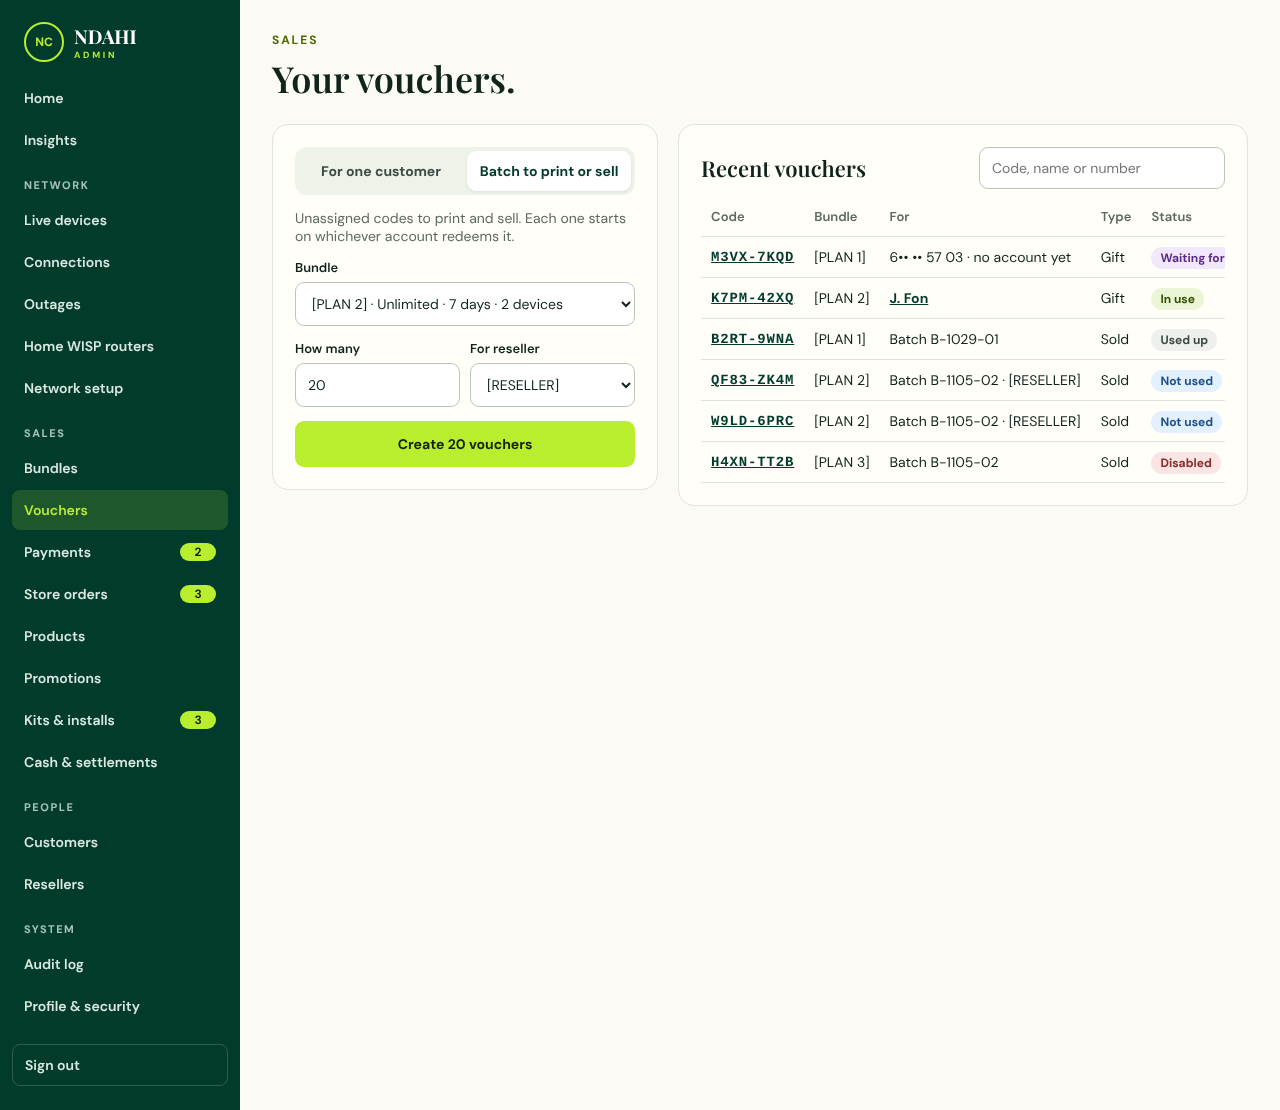
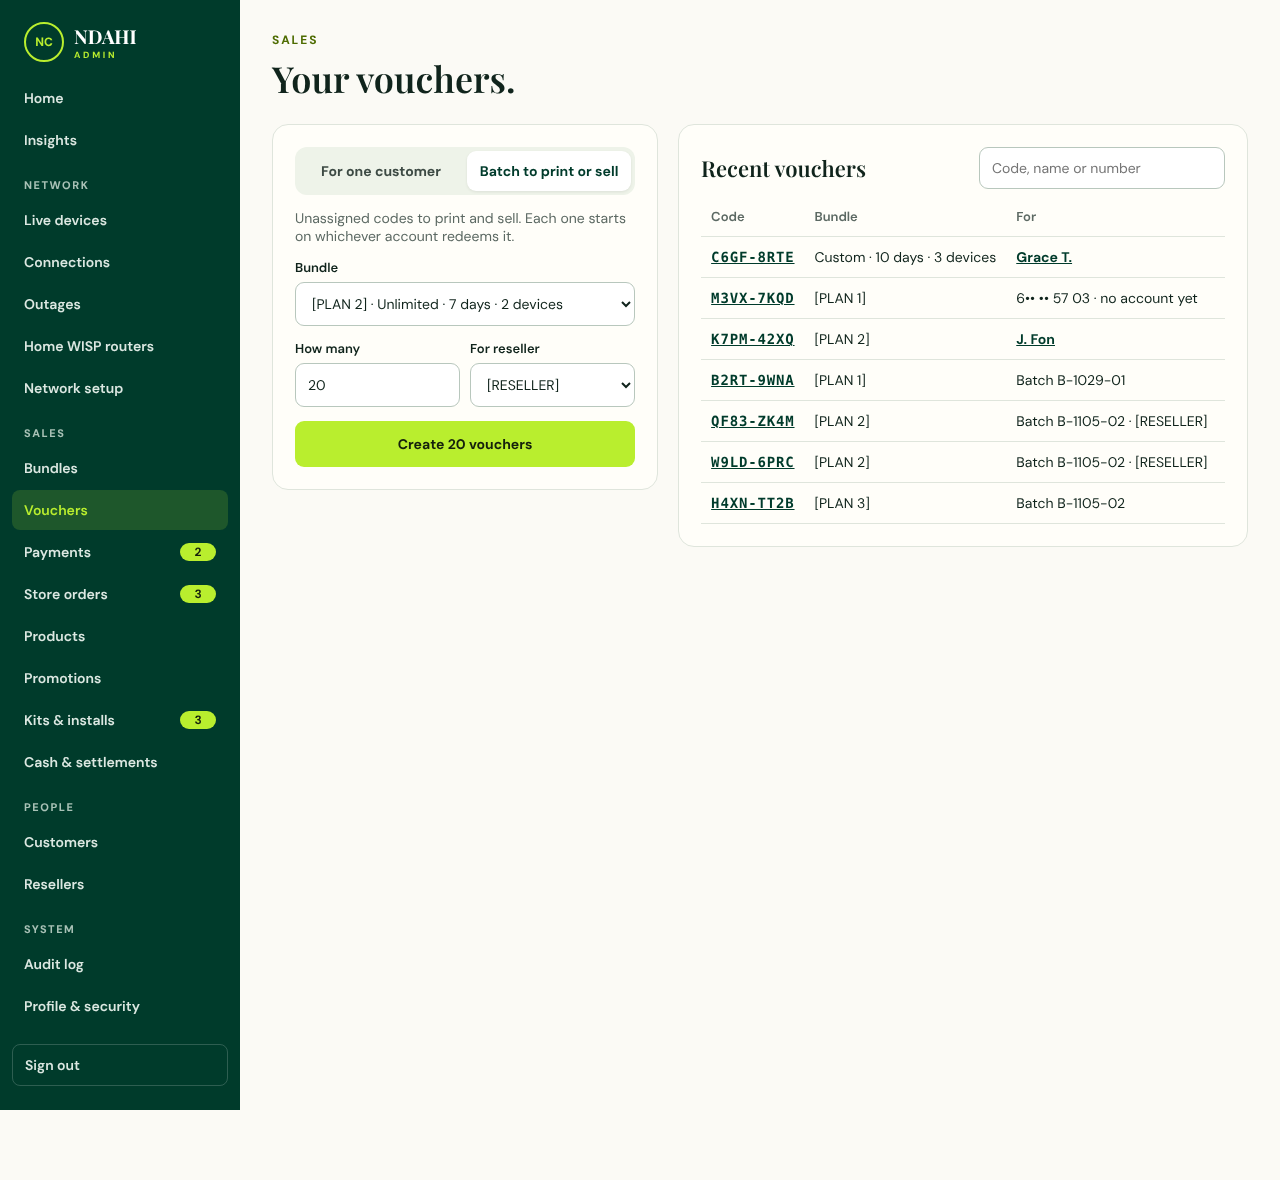
docs(redesign): custom gift bundles in Admin → Vouchers; Black Friday free month
Claude-Session: https://claude.ai/code/session_01PeEvdR56ZfPMa6Qo24KpBv

diff --git a/docs/redesign/screens/AdminVouchers.dc.html b/docs/redesign/screens/AdminVouchers.dc.html
@@ -84,14 +84,48 @@ th{color:#5c6963;font-weight:600;font-size:13px}
                       <button type="button" onClick="{{unpick}}" style="min-height: 40px; padding: 0 10px; border: 0; background: transparent; color: #003b2b; font: 700 13px 'DM Sans', sans-serif; cursor: pointer">Change</button>
                     </div>
                     <p style="margin: 0; padding: 12px 14px; border-radius: 12px; background: #e3f0ff; color: #1d4f86; font-size: 14px; line-height: 1.5">The voucher is <strong>reserved for this number</strong>. To claim it they need the number <em>and</em> the code, so give them the slip or read them the code. If they later pay with Mobile Money from this number, it's added to their account automatically.</p>
-                    <div><label class="lbl" for="vb2">Bundle</label><select class="in" id="vb2"><option>[PLAN 1] · Unlimited · 24 h · 1 device</option><option selected="">[PLAN 2] · Unlimited · 7 days · 2 devices</option><option>[PLAN 3] · Unlimited · 30 days · 4 devices</option></select></div>
-                    <fieldset style="margin: 0; padding: 0; border: 0; display: flex; flex-direction: column; gap: 8px">
+                    <div style="display: flex; flex-direction: column; gap: 10px">
+                      <span class="lbl" style="margin: 0">Bundle</span>
+                      <div role="tablist" aria-label="Bundle source" style="display: flex; gap: 4px; padding: 4px; border-radius: 10px; background: #eef3e9">
+                        <sc-for list="{{srcTabs}}" as="t" hint-placeholder-count="2"><button type="button" role="tab" aria-selected="{{t.sel}}" onClick="{{t.pick}}" style="{{t.style}}">{{t.label}}</button></sc-for>
+                      </div>
+                      <sc-if value="{{isCatalogue}}" hint-placeholder-val="{{ true }}">
+                        <select class="in" id="vb2" aria-label="Catalogue bundle"><option>[PLAN 1] · Unlimited · 24 h · 1 device</option><option selected="">[PLAN 2] · Unlimited · 7 days · 2 devices</option><option>[PLAN 3] · Unlimited · 30 days · 4 devices</option></select>
+                      </sc-if>
+                      <sc-if value="{{isCustom}}" hint-placeholder-val="{{ false }}">
+                        <div style="display: flex; flex-direction: column; gap: 12px; padding: 14px; border-radius: 12px; border: 1px solid #dfe5dc; background: #ffffff">
+                          <fieldset style="margin: 0; padding: 0; border: 0; display: grid; grid-template-columns: 1fr 1fr; gap: 8px">
+                            <legend class="lbl">Access type</legend>
+                            <sc-for list="{{access}}" as="a" hint-placeholder-count="2">
+                              <label style="{{a.style}}"><input type="radio" name="cat2" checked="{{a.on}}" onChange="{{a.pick}}" style="width: 18px; height: 18px; accent-color: #003b2b; margin: 2px 0 0"><span><strong style="display: block; font-size: 14px">{{a.label}}</strong><span style="font-size: 12px; color: #5c6963">{{a.hint}}</span></span></label>
+                            </sc-for>
+                          </fieldset>
+                          <div><label class="lbl" for="cv2">Validity</label>
+                            <div style="display: flex; gap: 8px"><input class="in" id="cv2" type="number" min="1" value="10" style="flex: 1"><div role="radiogroup" aria-label="Unit" style="display: flex; gap: 4px; padding: 4px; border-radius: 9px; background: #eef3e9"><span style="display: grid; place-items: center; padding: 0 12px; border-radius: 7px; font-size: 13px; font-weight: 600; color: #3d4a44">hours</span><span style="display: grid; place-items: center; padding: 0 12px; border-radius: 7px; background: #ffffff; font-size: 13px; font-weight: 700; color: #003b2b">days</span></div></div>
+                            <p style="margin: 6px 0 0; color: #5c6963; font-size: 12px">1 hour to 365 days. Starts at their first connection.</p>
+                          </div>
+                          <sc-if value="{{isPersonal}}" hint-placeholder-val="{{ true }}">
+                            <div><span class="lbl">Device slots</span>
+                              <div style="display: flex; gap: 6px; align-items: center"><sc-for list="{{slots}}" as="d" hint-placeholder-count="4"><span style="{{d.style}}">{{d.n}}</span></sc-for><span style="color: #5c6963; font-size: 13px; padding: 0 4px">or</span><input class="in" aria-label="Custom number of slots" type="number" min="1" max="10" value="3" style="width: 64px; min-height: 38px"></div>
+                            </div>
+                          </sc-if>
+                          <sc-if value="{{isWisp}}" hint-placeholder-val="{{ false }}">
+                            <p style="margin: 0; padding: 10px 12px; border-radius: 10px; background: #eef3e9; font-size: 13px; color: #3d4a44">1 registered WISP router · sharing on · up to 60 household devices on supported routers</p>
+                          </sc-if>
+                          <div style="display: flex; justify-content: space-between; gap: 10px; padding: 10px 12px; border-radius: 10px; background: #f6f7f2; font-size: 13px"><span style="color: #5c6963">Data</span><strong>Unlimited</strong></div>
+                          <div><label class="lbl" for="cr2">Reason (required, kept in the audit log)</label><input class="in" id="cr2" value="Compensation for the 18 Nov outage at AP-Market"></div>
+                          <p style="margin: 0; padding: 10px 12px; border-radius: 10px; background: #003b2b; color: #ffffff; font-size: 13px; line-height: 1.45"><span style="color: #b9ee2e; font-weight: 700">They'll see:</span> {{customName}}</p>
+                          <p style="margin: 0; color: #5c6963; font-size: 12px; line-height: 1.5">Custom bundles are always gifts: no revenue, not added to the catalogue, can't be bought again. Terms are fixed when you give it.</p>
+                        </div>
+                      </sc-if>
+                    </div>
+                    <sc-if value="{{isCatalogue}}" hint-placeholder-val="{{ true }}"><fieldset style="margin: 0; padding: 0; border: 0; display: flex; flex-direction: column; gap: 8px">
                       <legend class="lbl">How it was paid</legend>
                       <sc-for list="{{kinds}}" as="k" hint-placeholder-count="2">
                         <label style="{{k.style}}"><input type="radio" name="sk2" checked="{{k.on}}" onChange="{{k.pick}}" style="width: 18px; height: 18px; accent-color: #003b2b"><span><strong style="display: block; font-size: 14px">{{k.label}}</strong><span style="font-size: 13px; color: #5c6963">{{k.hint}}</span></span></label>
                       </sc-for>
-                    </fieldset>
-                    <button type="button" class="go" onClick="{{give}}">Reserve [PLAN 2] for this number</button>
+                    </fieldset></sc-if>
+                    <button type="button" class="go" onClick="{{give}}">{{reserveLabel}}</button>
                     <p style="margin: 0; color: #5c6963; font-size: 13px">Unclaimed after 90 days, it expires. You can change the number or revoke it any time before it's claimed.</p>
                   </div>
                 </sc-if>
@@ -103,13 +137,47 @@ th{color:#5c6963;font-weight:600;font-size:13px}
                       <span style="flex: 1"><strong style="display: block">{{who}}</strong><span style="font-size: 13px; color: #5c6963">{{whoLine}}</span></span>
                       <button type="button" onClick="{{unpick}}" style="min-height: 40px; padding: 0 10px; border: 0; background: transparent; color: #003b2b; font: 700 13px 'DM Sans', sans-serif; cursor: pointer">Change</button>
                     </div>
-                    <div><label class="lbl" for="vb1">Bundle</label><select class="in" id="vb1"><option>[PLAN 1] · Unlimited · 24 h · 1 device</option><option selected="">[PLAN 2] · Unlimited · 7 days · 2 devices</option><option>[PLAN 3] · Unlimited · 30 days · 4 devices</option></select></div>
-                    <fieldset style="margin: 0; padding: 0; border: 0; display: flex; flex-direction: column; gap: 8px">
+                    <div style="display: flex; flex-direction: column; gap: 10px">
+                      <span class="lbl" style="margin: 0">Bundle</span>
+                      <div role="tablist" aria-label="Bundle source" style="display: flex; gap: 4px; padding: 4px; border-radius: 10px; background: #eef3e9">
+                        <sc-for list="{{srcTabs}}" as="t" hint-placeholder-count="2"><button type="button" role="tab" aria-selected="{{t.sel}}" onClick="{{t.pick}}" style="{{t.style}}">{{t.label}}</button></sc-for>
+                      </div>
+                      <sc-if value="{{isCatalogue}}" hint-placeholder-val="{{ true }}">
+                        <select class="in" id="vb1" aria-label="Catalogue bundle"><option>[PLAN 1] · Unlimited · 24 h · 1 device</option><option selected="">[PLAN 2] · Unlimited · 7 days · 2 devices</option><option>[PLAN 3] · Unlimited · 30 days · 4 devices</option></select>
+                      </sc-if>
+                      <sc-if value="{{isCustom}}" hint-placeholder-val="{{ false }}">
+                        <div style="display: flex; flex-direction: column; gap: 12px; padding: 14px; border-radius: 12px; border: 1px solid #dfe5dc; background: #ffffff">
+                          <fieldset style="margin: 0; padding: 0; border: 0; display: grid; grid-template-columns: 1fr 1fr; gap: 8px">
+                            <legend class="lbl">Access type</legend>
+                            <sc-for list="{{access}}" as="a" hint-placeholder-count="2">
+                              <label style="{{a.style}}"><input type="radio" name="cat1" checked="{{a.on}}" onChange="{{a.pick}}" style="width: 18px; height: 18px; accent-color: #003b2b; margin: 2px 0 0"><span><strong style="display: block; font-size: 14px">{{a.label}}</strong><span style="font-size: 12px; color: #5c6963">{{a.hint}}</span></span></label>
+                            </sc-for>
+                          </fieldset>
+                          <div><label class="lbl" for="cv1">Validity</label>
+                            <div style="display: flex; gap: 8px"><input class="in" id="cv1" type="number" min="1" value="10" style="flex: 1"><div role="radiogroup" aria-label="Unit" style="display: flex; gap: 4px; padding: 4px; border-radius: 9px; background: #eef3e9"><span style="display: grid; place-items: center; padding: 0 12px; border-radius: 7px; font-size: 13px; font-weight: 600; color: #3d4a44">hours</span><span style="display: grid; place-items: center; padding: 0 12px; border-radius: 7px; background: #ffffff; font-size: 13px; font-weight: 700; color: #003b2b">days</span></div></div>
+                            <p style="margin: 6px 0 0; color: #5c6963; font-size: 12px">1 hour to 365 days. Starts at their first connection.</p>
+                          </div>
+                          <sc-if value="{{isPersonal}}" hint-placeholder-val="{{ true }}">
+                            <div><span class="lbl">Device slots</span>
+                              <div style="display: flex; gap: 6px; align-items: center"><sc-for list="{{slots}}" as="d" hint-placeholder-count="4"><span style="{{d.style}}">{{d.n}}</span></sc-for><span style="color: #5c6963; font-size: 13px; padding: 0 4px">or</span><input class="in" aria-label="Custom number of slots" type="number" min="1" max="10" value="3" style="width: 64px; min-height: 38px"></div>
+                            </div>
+                          </sc-if>
+                          <sc-if value="{{isWisp}}" hint-placeholder-val="{{ false }}">
+                            <p style="margin: 0; padding: 10px 12px; border-radius: 10px; background: #eef3e9; font-size: 13px; color: #3d4a44">1 registered WISP router · sharing on · up to 60 household devices on supported routers</p>
+                          </sc-if>
+                          <div style="display: flex; justify-content: space-between; gap: 10px; padding: 10px 12px; border-radius: 10px; background: #f6f7f2; font-size: 13px"><span style="color: #5c6963">Data</span><strong>Unlimited</strong></div>
+                          <div><label class="lbl" for="cr1">Reason (required, kept in the audit log)</label><input class="in" id="cr1" value="Compensation for the 18 Nov outage at AP-Market"></div>
+                          <p style="margin: 0; padding: 10px 12px; border-radius: 10px; background: #003b2b; color: #ffffff; font-size: 13px; line-height: 1.45"><span style="color: #b9ee2e; font-weight: 700">They'll see:</span> {{customName}}</p>
+                          <p style="margin: 0; color: #5c6963; font-size: 12px; line-height: 1.5">Custom bundles are always gifts: no revenue, not added to the catalogue, can't be bought again. Terms are fixed when you give it.</p>
+                        </div>
+                      </sc-if>
+                    </div>
+                    <sc-if value="{{isCatalogue}}" hint-placeholder-val="{{ true }}"><fieldset style="margin: 0; padding: 0; border: 0; display: flex; flex-direction: column; gap: 8px">
                       <legend class="lbl">How it was paid</legend>
                       <sc-for list="{{kinds}}" as="k" hint-placeholder-count="2">
                         <label style="{{k.style}}"><input type="radio" name="sk" checked="{{k.on}}" onChange="{{k.pick}}" style="width: 18px; height: 18px; accent-color: #003b2b"><span><strong style="display: block; font-size: 14px">{{k.label}}</strong><span style="font-size: 13px; color: #5c6963">{{k.hint}}</span></span></label>
                       </sc-for>
-                    </fieldset>
+                    </fieldset></sc-if>
                     <sc-if value="{{hasActive}}" hint-placeholder-val="{{ false }}">
                       <div style="padding: 12px 14px; border-radius: 12px; background: #fff4e0; color: #6b3a00; font-size: 14px; display: flex; flex-direction: column; gap: 10px">
                         <span><strong>Amina already has [PLAN 2] active</strong> (ends 25 Nov). This voucher replaces it straight away: the old bundle ends and its 2 devices are disconnected.</span>
@@ -155,8 +223,9 @@ th{color:#5c6963;font-weight:600;font-size:13px}
             <thead><tr><th scope="col">Code</th><th scope="col">Bundle</th><th scope="col">For</th><th scope="col">Type</th><th scope="col">Status</th></tr></thead>
             <tbody>
               <sc-if value="{{isDone}}" hint-placeholder-val="{{ false }}">
-                <tr><td class="code"><a href="AdminVoucherDetail.dc.html">{{doneCode}}</a></td><td>[PLAN 2]</td><td>{{doneFor}}</td><td>{{doneType}}</td><td><span style="{{donePill}}">{{doneStatus}}</span></td></tr>
+                <tr><td class="code"><a href="AdminVoucherDetail.dc.html">{{doneCode}}</a></td><td>{{doneBundle}}</td><td>{{doneFor}}</td><td>{{doneType}}</td><td><span style="{{donePill}}">{{doneStatus}}</span></td></tr>
               </sc-if>
+              <tr><td class="code"><a href="AdminVoucherDetail.dc.html">C6GF-8RTE</a></td><td>Custom · 10 days · 3 devices</td><td><a href="AdminCustomerDetail.dc.html" style="font-weight: 700">Grace T.</a></td><td>Gift</td><td><span class="pill" style="background: #eaf6d5; color: #345000">In use</span></td></tr>
               <tr><td class="code"><a href="AdminVoucherDetail.dc.html">M3VX-7KQD</a></td><td>[PLAN 1]</td><td>6•• •• 57 03 · no account yet</td><td>Gift</td><td><span class="pill" style="background: #f1e8fb; color: #5b2d86">Waiting for claim</span></td></tr>
               <tr><td class="code"><a href="AdminVoucherDetail.dc.html">K7PM-42XQ</a></td><td>[PLAN 2]</td><td><a href="AdminCustomerDetail.dc.html" style="font-weight: 700">J. Fon</a></td><td>Gift</td><td><span class="pill" style="background: #eaf6d5; color: #345000">In use</span></td></tr>
               <tr><td class="code"><a href="AdminVoucherDetail.dc.html">B2RT-9WNA</a></td><td>[PLAN 1]</td><td>Batch B-1029-01</td><td>Sold</td><td><span class="pill" style="background: #eef0ee; color: #3d4a44">Used up</span></td></tr>
@@ -171,11 +240,12 @@ th{color:#5c6963;font-weight:600;font-size:13px}
   </main>
 </div>
 </x-dc>
-<script type="text/x-dc" data-dc-script data-props='{"mode":{"editor":"enum","options":["customer","batch"],"default":"customer"},"$preview":{"width":1280,"height":1020}}'>
+<script type="text/x-dc" data-dc-script data-props='{"mode":{"editor":"enum","options":["customer","batch"],"default":"customer"},"pick":{"editor":"enum","options":["none","amina","grace","unknown"],"default":"none"},"bundle":{"editor":"enum","options":["catalogue","custom","customWisp"],"default":"catalogue"},"$preview":{"width":1280,"height":1180}}'>
 class Component extends DCLogic {
   constructor(props) {
     super(props);
-    this.state = { mode: props.mode ?? 'customer', made: false, pick: null, kind: 'sold', confirmed: false, done: false };
+    const b = props.bundle ?? 'catalogue'; const pk = props.pick ?? 'none';
+    this.state = { mode: props.mode ?? 'customer', made: false, pick: pk === 'none' ? null : pk, kind: 'sold', confirmed: false, done: false, src: b === 'catalogue' ? 'catalogue' : 'custom', ctype: b === 'customWisp' ? 'wisp' : 'personal' };
   }
   renderVals() {
     const s = this.state;
@@ -186,7 +256,7 @@ class Component extends DCLogic {
       pick: () => this.setState({ mode: id })
     }));
     const people = {
-      amina: { who: 'Amina N.', initial: 'A', line: '+237 6•• •• 12 45 · [PLAN 2] active, ends 12 Nov', active: true },
+      amina: { who: 'Amina N.', initial: 'A', line: '+237 6•• •• 12 45 · [PLAN 2] active, ends 25 Nov', active: true },
       grace: { who: 'Grace T.', initial: 'G', line: '+237 6•• •• 03 66 · no active bundle', active: false }
     };
     const p = people[s.pick] || { who: '', initial: '', line: '', active: false };
@@ -199,9 +269,18 @@ class Component extends DCLogic {
       style: rowBase + (s.kind === id ? 'border: 2px solid #003b2b; background: #f3f9e8;' : 'border: 1px solid #dfe5dc; background: #ffffff;'),
       pick: () => this.setState({ kind: id })
     }));
+    const custom = s.src === 'custom'; const wisp = custom && s.ctype === 'wisp';
+    const srcTabs = [['catalogue', 'From the catalogue'], ['custom', 'Custom bundle']].map(([id, label]) => ({ label, sel: id === s.src ? 'true' : 'false', style: 'flex: 1; min-height: 36px; border: 0; border-radius: 7px; font: 700 13px "DM Sans", sans-serif; cursor: pointer; ' + (id === s.src ? 'background: #ffffff; color: #003b2b; box-shadow: 0 1px 3px rgba(0,0,0,.08);' : 'background: transparent; color: #3d4a44;'), pick: () => this.setState({ src: id }) }));
+    const access = [['personal', 'Personal Unlimited', 'Device slots · restricts sharing'], ['wisp', 'Home WISP Unlimited', 'One router · sharing on']].map(([id, label, hint]) => ({ label, hint, on: s.ctype === id, pick: () => this.setState({ ctype: id }), style: 'display: flex; gap: 8px; align-items: flex-start; padding: 10px; border-radius: 10px; cursor: pointer; ' + (s.ctype === id ? 'border: 2px solid #003b2b; background: #f3f9e8;' : 'border: 1px solid #dfe5dc; background: #ffffff;') }));
+    const slots = [1, 2, 4, 6].map((n) => ({ n, style: 'display: grid; place-items: center; width: 38px; height: 38px; border-radius: 50%; font-size: 13px; font-weight: 700; ' + 'border: 1px solid #b8c7bd; color: #10241c; background: #ffffff;' }));
+    const terms = wisp ? 'Home WISP Unlimited · 10 days · 1 router' : 'Unlimited · 10 days · 3 devices';
+    const customName = 'Gift from NDAHI · ' + terms;
+    const bname = custom ? 'Custom · ' + terms.replace('Unlimited · ', '') : '[PLAN 2]';
     const blocked = p.active && !s.confirmed;
     const set = (o) => () => this.setState(o);
     return {
+      srcTabs, access, slots, customName, isCatalogue: !custom, isCustom: custom, isPersonal: !wisp, isWisp: wisp, doneBundle: bname,
+      reserveLabel: custom ? 'Reserve this custom gift for this number' : 'Reserve [PLAN 2] for this number',
       modes, isCustomer: s.mode === 'customer', isBatch: s.mode === 'batch',
       made: s.made, create: set({ made: true }),
       isDone: s.done, notDone: !s.done,
@@ -210,7 +289,7 @@ class Component extends DCLogic {
       unpick: set({ pick: null, confirmed: false }),
       who: p.who, initial: p.initial, whoLine: p.line, hasActive: p.active,
       kinds, confirmed: s.confirmed, flipConfirm: set({ confirmed: !s.confirmed }),
-      blocked, giveLabel: s.kind === 'gift' ? 'Give [PLAN 2] as a gift' : 'Give [PLAN 2] — sold',
+      blocked, giveLabel: custom ? 'Give custom bundle as a gift' : (s.kind === 'gift' ? 'Give [PLAN 2] as a gift' : 'Give [PLAN 2] — sold'),
       give: () => { if (!blocked) this.setState({ done: true }); },
       replaced: p.active && s.pick !== 'unknown',
       doneCode: s.pick === 'unknown' ? 'P4NE-2WJH' : 'R8TW-3MXK',
@@ -218,9 +297,9 @@ class Component extends DCLogic {
       doneFor: s.pick === 'unknown' ? '6•• •• 99 10 · no account yet' : p.who,
       doneStatus: s.pick === 'unknown' ? 'Waiting for claim' : 'In use',
       donePill: 'padding: 3px 9px; border-radius: 999px; font-size: 12px; font-weight: 700; ' + (s.pick === 'unknown' ? 'background: #f1e8fb; color: #5b2d86;' : 'background: #eaf6d5; color: #345000;'),
-      doneTag: (s.kind === 'gift' ? 'Gift' : 'Sold') + ' · [PLAN 2] · Unlimited · 7 days · 2 devices',
-      doneType: s.kind === 'gift' ? 'Gift' : 'Sold',
-      reset: set({ done: false, pick: null, confirmed: false, kind: 'sold' })
+      doneTag: custom ? 'Gift · Custom · ' + terms : (s.kind === 'gift' ? 'Gift' : 'Sold') + ' · [PLAN 2] · Unlimited · 7 days · 2 devices',
+      doneType: custom || s.kind === 'gift' ? 'Gift' : 'Sold',
+      reset: set({ done: false, pick: null, confirmed: false, kind: 'sold', src: 'catalogue' })
     };
   }
 }

diff --git a/docs/redesign/decisions.md b/docs/redesign/decisions.md
@@ -98,7 +98,7 @@ Front-end phases stay front-end. These are separate, small server tasks, each it
 
 Screens: `StorePromo` (desktop store), `PhonePromoBuy` (product → checkout → order, as an account holder or a guest), `AdminPromotions` (set up, and the view while it runs). `AdminSide` gains Promotions under Sales.
 
-**Black Friday, 27–30 Nov (owner, 20 Nov):** any AX1500 router for **100,000 FCFA**, with **45 days of Unlimited Home** free. These rules replace the 19 Nov draft, which offered one month starting when the customer pressed Start.
+**Black Friday, 27–30 Nov (owner, 20 Nov; free bundle length changed 23 Nov):** any AX1500 router for **100,000 FCFA**, with **one month of Unlimited** free. The owner kept "a month of Unlimited" on 23 Nov, replacing the 45 days set on 20 Nov; the promotion's free-bundle length is set to one month (30 days) in Admin → Promotions. These rules replace the 19 Nov draft, which offered one month starting when the customer pressed Start.
 
 - **A promotion holds:**
   - its products, chosen one by one, so every AX1500 model can be included; products are never matched by name;
@@ -170,3 +170,14 @@ Spec: `specs/unlimited-catalog-and-device-locking.md` (owner, verbatim). Designs
 - **Personal bundles "restrict sharing"** (TTL=1 on forwarded replies). Never promise sharing is impossible.
 - **Home WISP sharing** applies only to an authenticated session matching an active subscription and its registered upstream MAC — never to a MAC or vendor prefix alone — and is withheld if entitlement can't be verified. Customer wording: "up to 60 household devices on supported routers".
 - **Speed limits stay optional** on the bundle editor, collapsed, using the existing `lib/bundle-speed-policy.mjs` rules.
+
+## Custom bundles given by an admin (23 Nov)
+
+Design: `AdminVouchers` → For one customer → Bundle → **Custom bundle** (renders `AdminVouchers--custom-*.png`).
+
+- In "For one customer", the admin chooses **From the catalogue** or **Custom bundle**. Custom works for an existing account and for a number with no account (reserved for the number, claimed with number + code, as above).
+- A custom bundle sets: access type (Personal Unlimited or Home WISP Unlimited), validity (1 hour to 365 days), device slots (1, 2, 4, 6 or 1–10; Home WISP is one router with sharing on). Data is always unlimited.
+- **A reason is required** and kept in the audit log.
+- **Always a gift:** no revenue, no price, not added to the catalogue, never shown for sale and can't be bought again. The customer sees "Gift from NDAHI · [terms]".
+- The terms are snapshotted when it's given, exactly like a catalogue voucher: time starts at first connection, slots bind to RouterOS-observed MACs, Home WISP needs router registration. Replacing an active bundle needs the same confirmation as any voucher.
+- Same permission as giving any voucher (owners and operators), enforced by the server, which validates every field.
